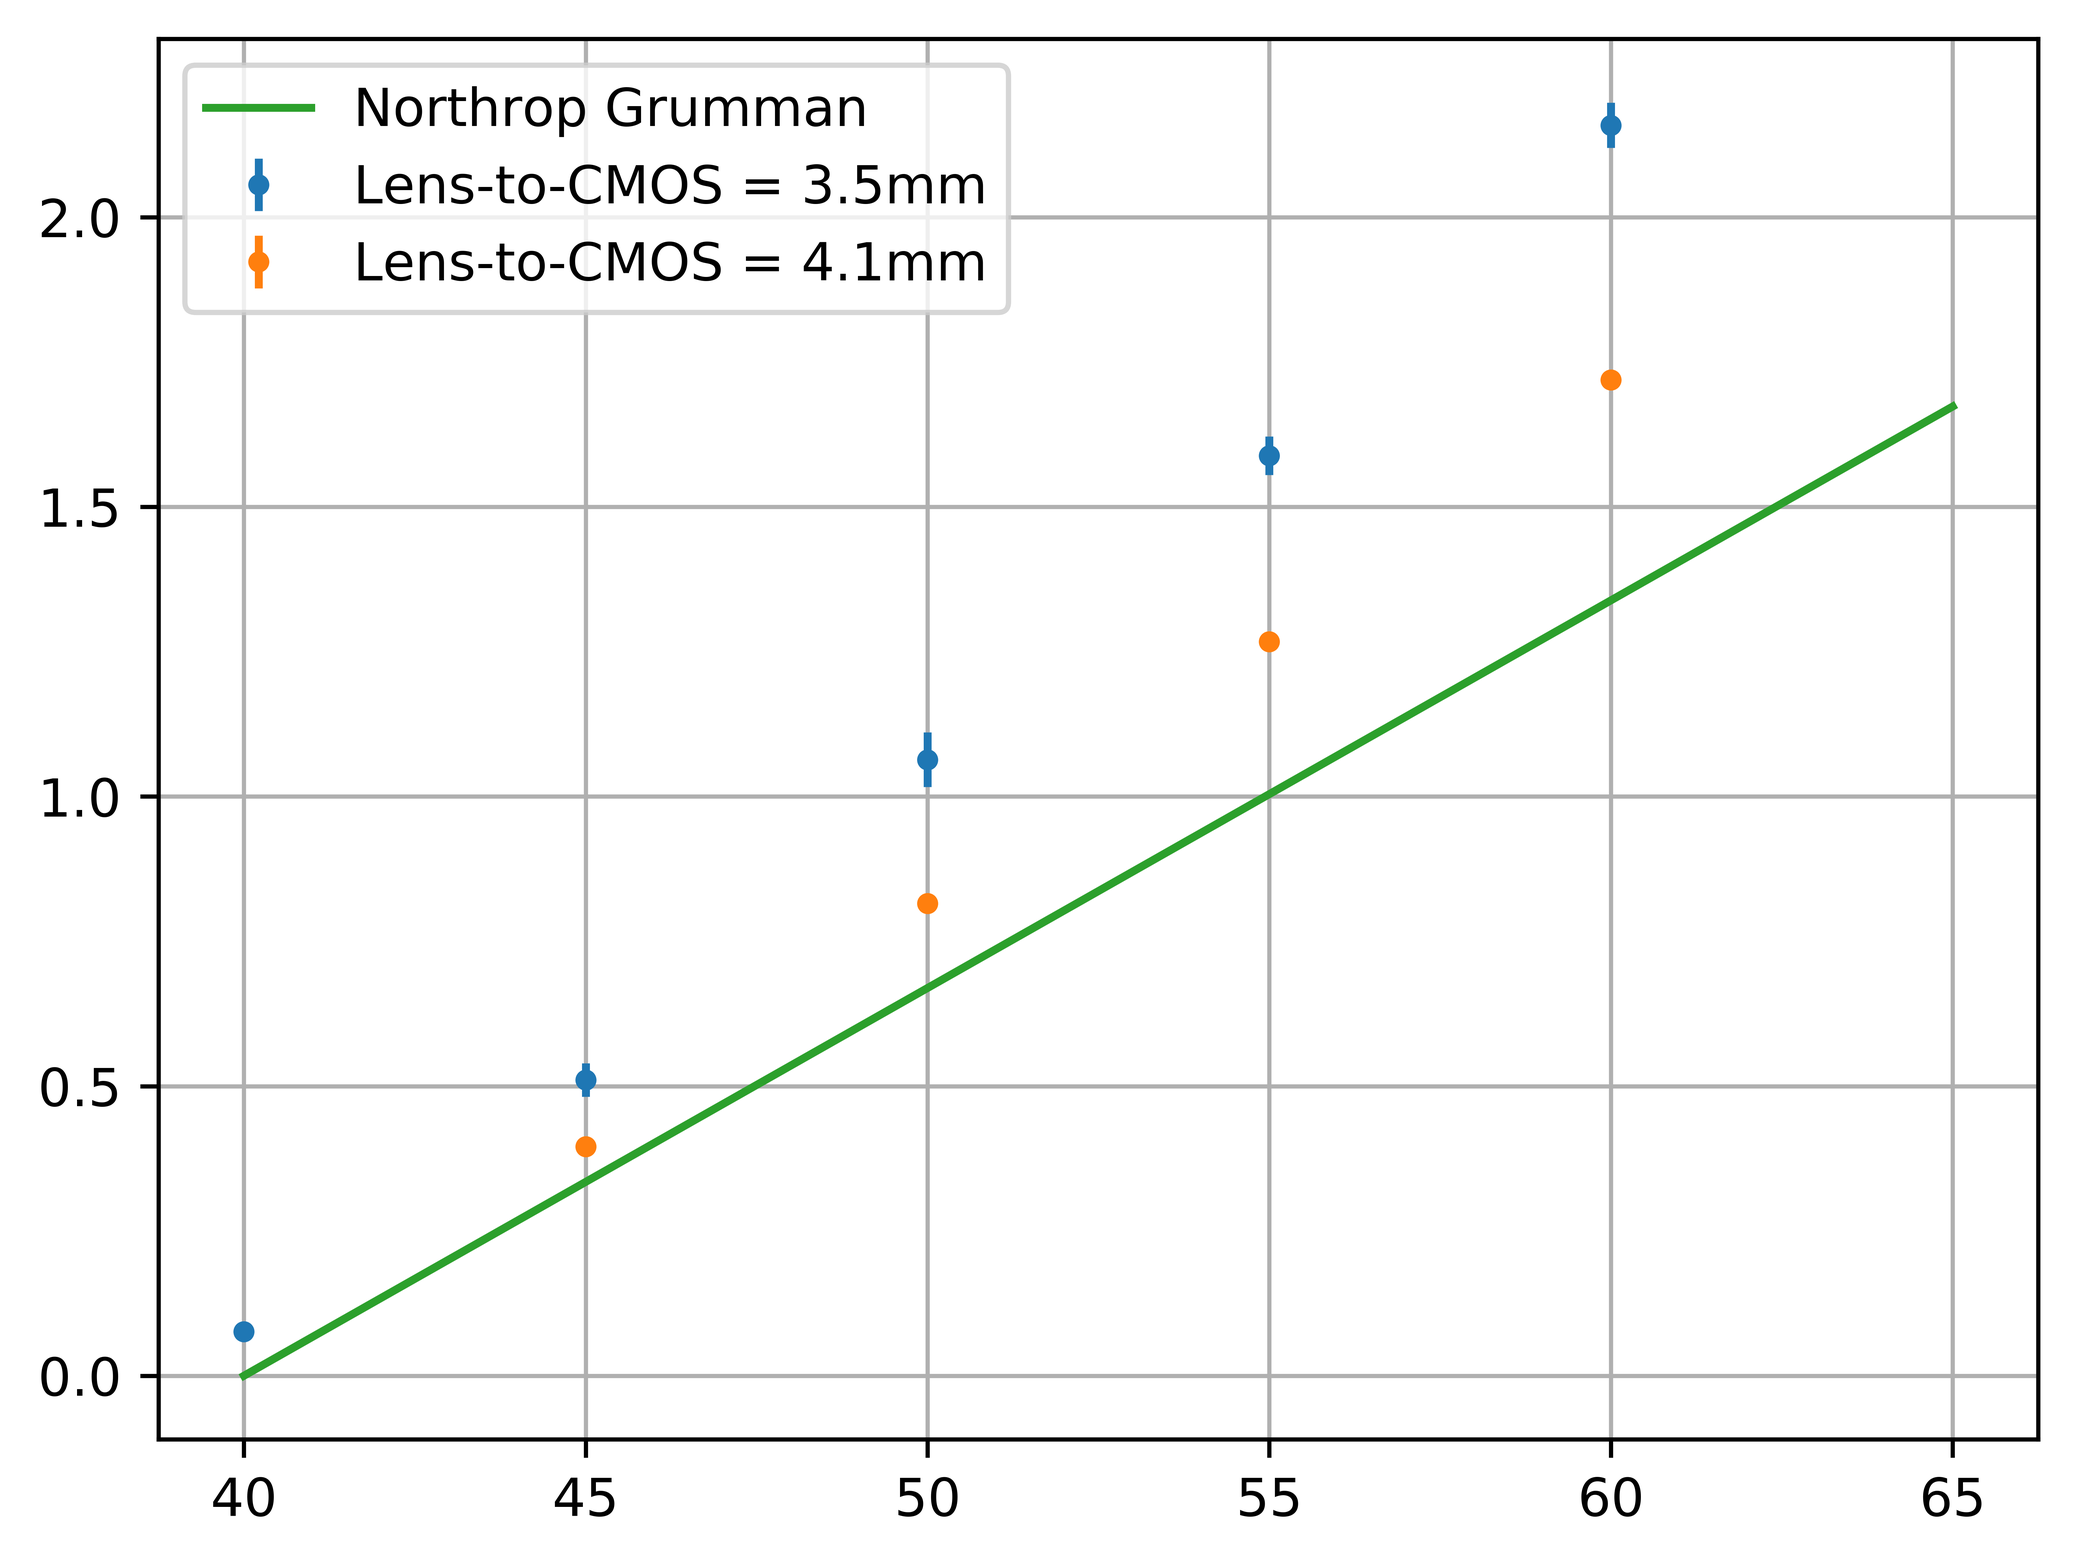
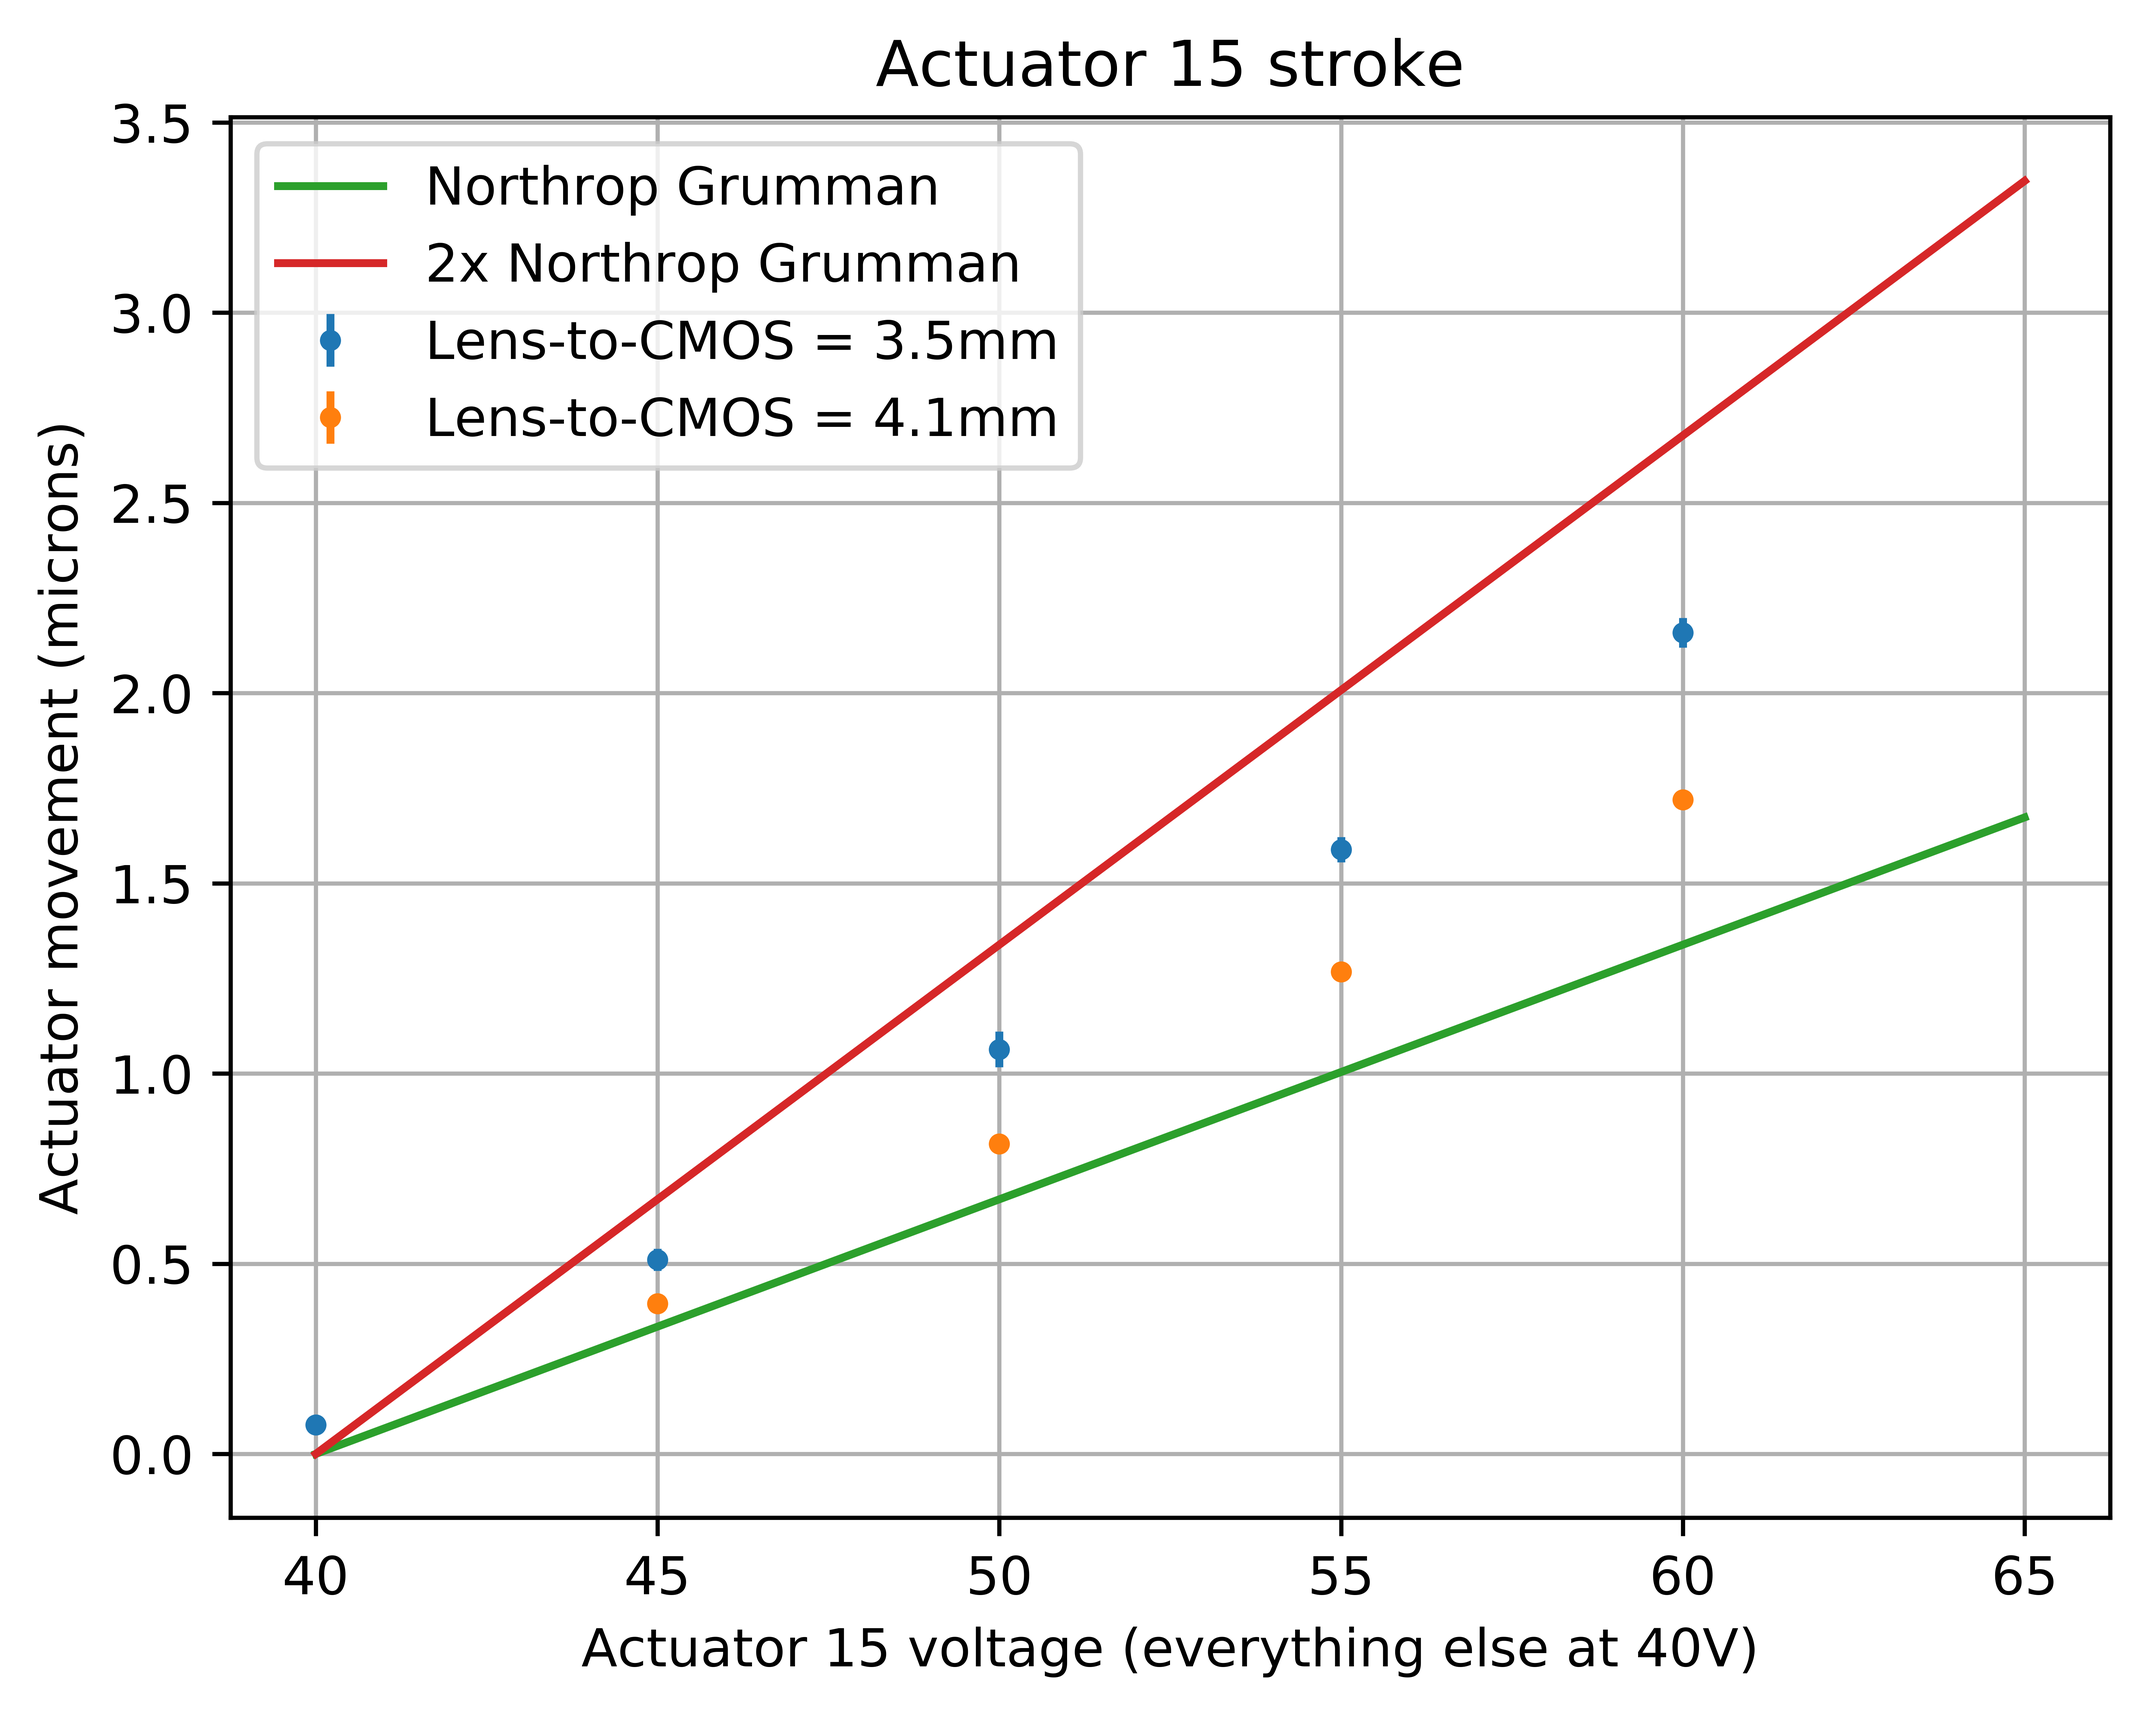
I changed the final actuator 15 plot.

diff --git a/Act15Test/plot_actuator15.py b/Act15Test/plot_actuator15.py
@@ -29,8 +29,14 @@ if __name__ == "__main__":
     ax.errorbar(x_3p5, y_3p5, yerr=y_err_3p5, fmt='.', label="Lens-to-CMOS = 3.5mm")
     ax.errorbar(x_4p1, y_4p1, yerr=y_err_4p1, fmt='.', label="Lens-to-CMOS = 4.1mm")
     ax.plot(x,y, label="Northrop Grumman")
+    ax.plot(x,2*y, label="2x Northrop Grumman")
 
     ax.legend()
+
+    ax.set_title('Actuator 15 stroke')
+    ax.set_ylabel('Actuator movement (microns)')
+    ax.set_xlabel('Actuator 15 voltage (everything else at 40V)')
+
     plt.savefig('Actuator 15 final.png', bbox_inches='tight')
 
-    # plt.show()
+    plt.show()
